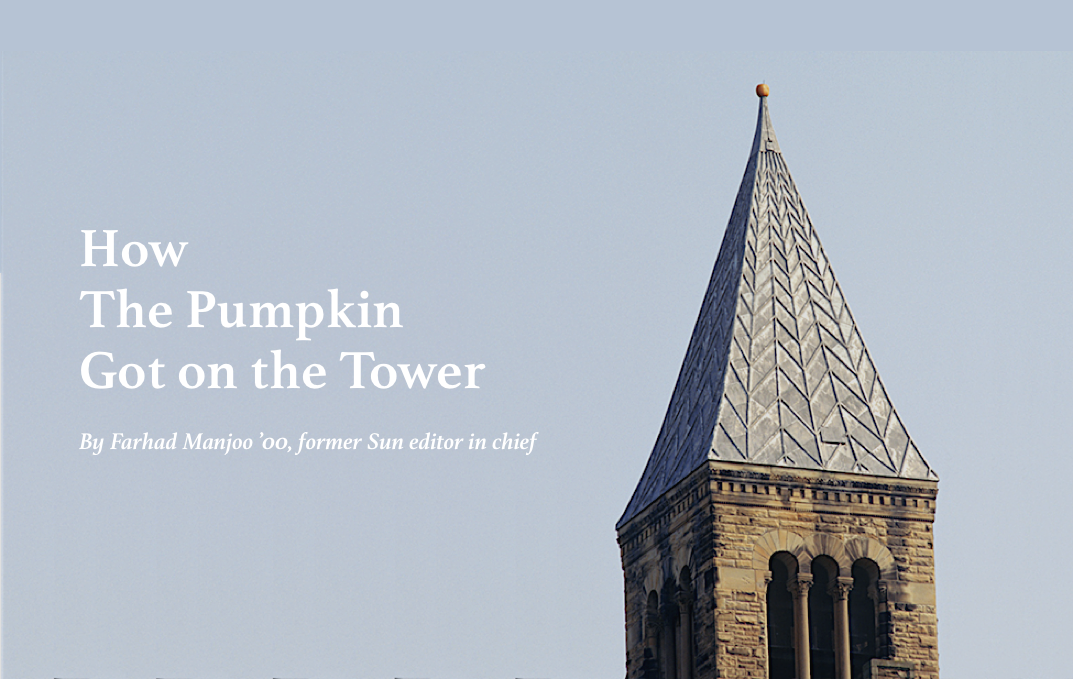
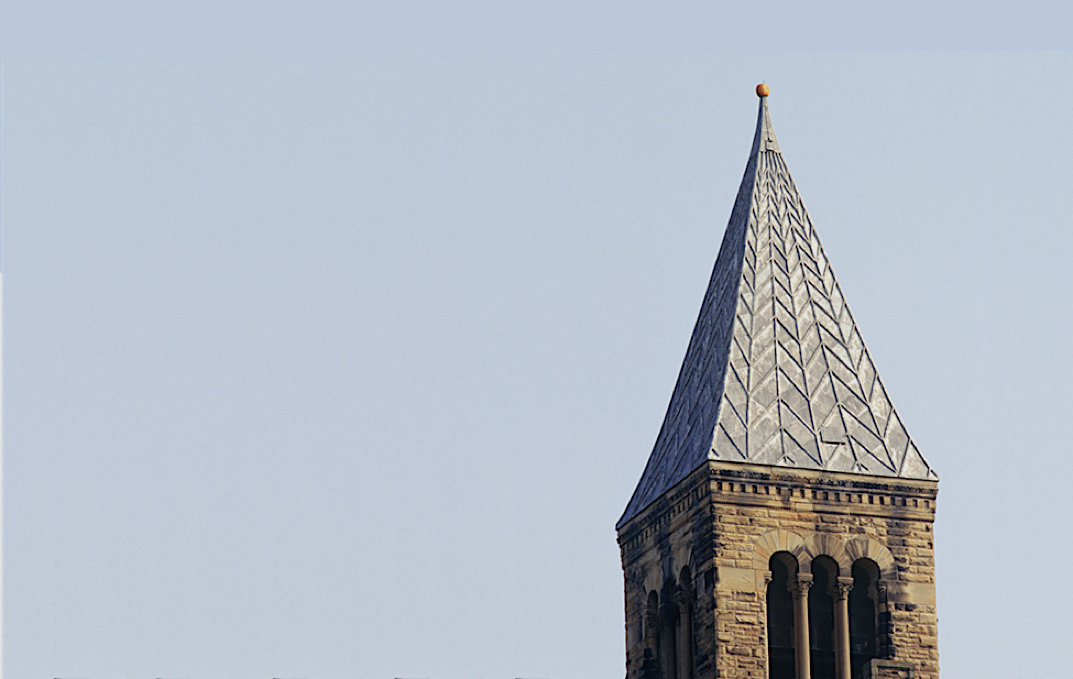
fixed title on image mobile responsiveness

Changed region(s): [[0.0615, 0.3402, 0.4613, 0.5876], [0.0615, 0.6186, 0.4921, 0.6804]]

diff --git a/css/style.css b/css/style.css
@@ -16,7 +16,7 @@ body{
 	min-height: 760px;
 	
 	
-	background-image: url(../images/titleimage.png);
+	background-image: url(../images/darker-title-image.png);
 	background-attachment: fixed;
 	background-position: center;
 	background-repeat: no-repeat;
@@ -32,6 +32,36 @@ body{
 	background-position: center;
 	background-repeat: no-repeat;
 	background-size: cover;
+}
+.maintitle-desktop{
+	text-align: left;
+	font-size: 320%;
+	font-family: 'Athelas', serif;
+	margin-left: 12%;
+	position: relative;
+	/*margin-left: 58%;*/
+	/*color: #56ff64;*/
+	color: #fff;
+	font-weight: bold;
+	/*font-family: 'Source Code Pro', monospace;*/
+	/* -webkit-animation: flicker 5s infinite;*/
+
+}
+#first-line-desktop{
+	margin-top: 10%;
+}
+.byline-desktop{
+	text-align: left;
+	/*font-family: 'Lora', serif;*/
+	margin-top: 1%;
+	margin-left: 12%;
+	font-size: 130%;
+	margin-top: 2%;
+	position: relative;
+	/*color: #b7b7b7;*/
+	color: #fff;
+	font-style: italic;
+	font-family: 'Athelas', serif;
 }
 #helicopter{
 
@@ -153,7 +183,6 @@ body{
 	margin-top: 0.5%;
 	font-size: 130%;
 	color: #666;
-	
 	font-family: "Athelas", serif;
 	font-style: italic;
 }
@@ -224,6 +253,7 @@ a:hover{
 		display: none;
 	}
 	
+	
 }
 @media only screen and (max-width: 1000px){
 	#sunlogo{
@@ -237,7 +267,22 @@ a:hover{
 		font-size: 200%;
 	}
 }
+@media only screen and (min-width: 768px){
+	#maintitle{
+		display:none;
+	}
+	#byline{
+		display:none;
+	}
+}
 @media only screen and (max-width: 767px){
+	.wrapper-mobile{
+		display: block;
+	}
+
+	.wrapper{
+		display:none;
+	}
 	.img-caption{
 		margin-left: 18%;
 		width: 65%;
@@ -299,12 +344,7 @@ a:hover{
 	#maintitle{
 		font-size: 190%;
 	}
-	.wrapper-mobile{
-		display: block;
-	}
-	.wrapper{
-		display:none;
-	}
+	
 
 }
 

diff --git a/index.html b/index.html
@@ -34,6 +34,10 @@
 <!--NEW WRAPPER: PARALLAX-->
 <div class="wrapper">
 	<img id="sunlogo" src="images/sunlogowhite.png">
+	<p id="first-line-desktop" class="maintitle-desktop">HOW</p>
+	<p class="maintitle-desktop">THE PUMPKIN</p>
+	<p class="maintitle-desktop">GOT ON THE TOWER!</p>
+	<p class="byline-desktop">By Farhad Manjoo ’00, former Sun editor in chief</p>
 </div>
 
 <div class="wrapper-mobile">
